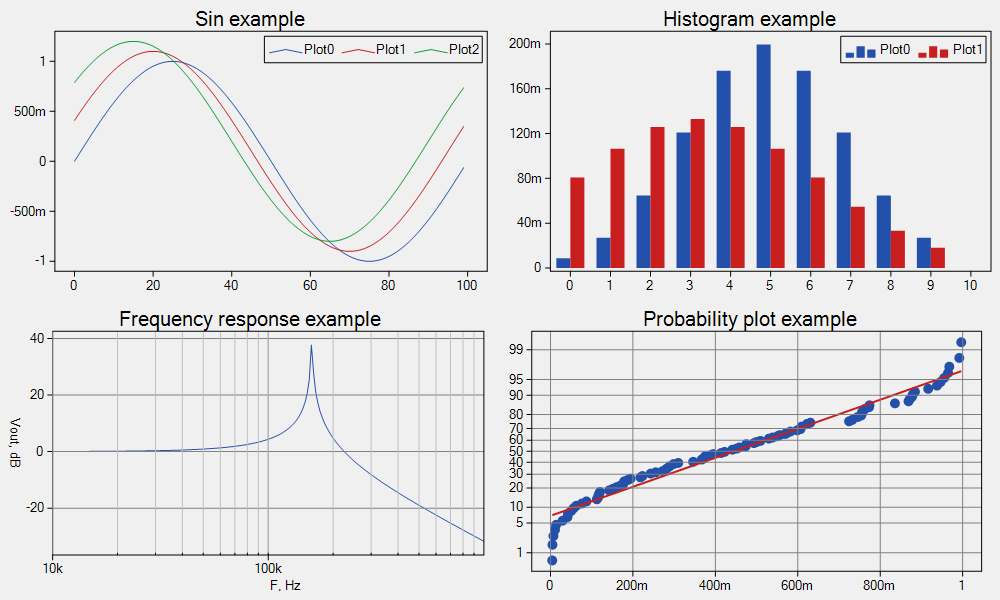
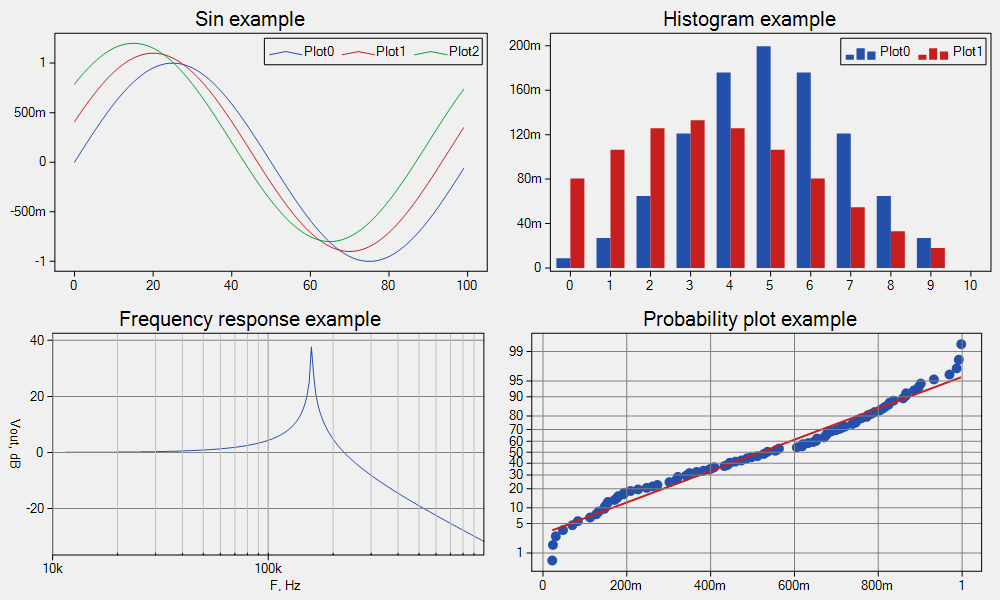
Add space between the title and the plot

diff --git a/OMPlot/Plot.cs b/OMPlot/Plot.cs
@@ -299,7 +299,7 @@ namespace OMPlot
             var titleSize = new SizeF(0, 0);
             if (!string.IsNullOrEmpty(Title))
                 titleSize = g.MeasureString(Title, titleFont);
-            plotRectangle.SetTop(plotRectangle.Top + titleSize.Height);
+            plotRectangle.SetTop(plotRectangle.Top + titleSize.Height + 2);
 
             var legendRectangles = new RectangleF[Data.Count];
             var legendRectangle = new RectangleF();
